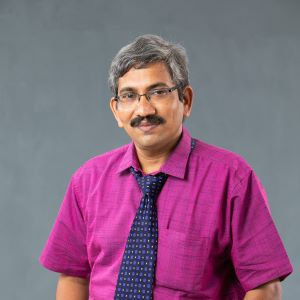
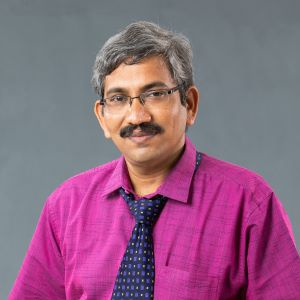
refactor staff images

diff --git a/src/assets/images/index.js b/src/assets/images/index.js
@@ -63,7 +63,7 @@ import prasanna_12 from "./event-coordinators/12-prasanna.png";
 import roshan_13 from "./event-coordinators/13-roshan.jpg";
 import aravindh_14 from "./event-coordinators/14-aravindh.jpg";
 
-import ceoImg from "./staffs/ceo.png";
+import ceoImg from "./staffs/ceo.jpg";
 import principalImg from "./staffs/Principal.jpeg";
 import rpImg from "./staffs/RP.jpeg";
 import rpImg1 from "./staffs/RP-1.jpg";
